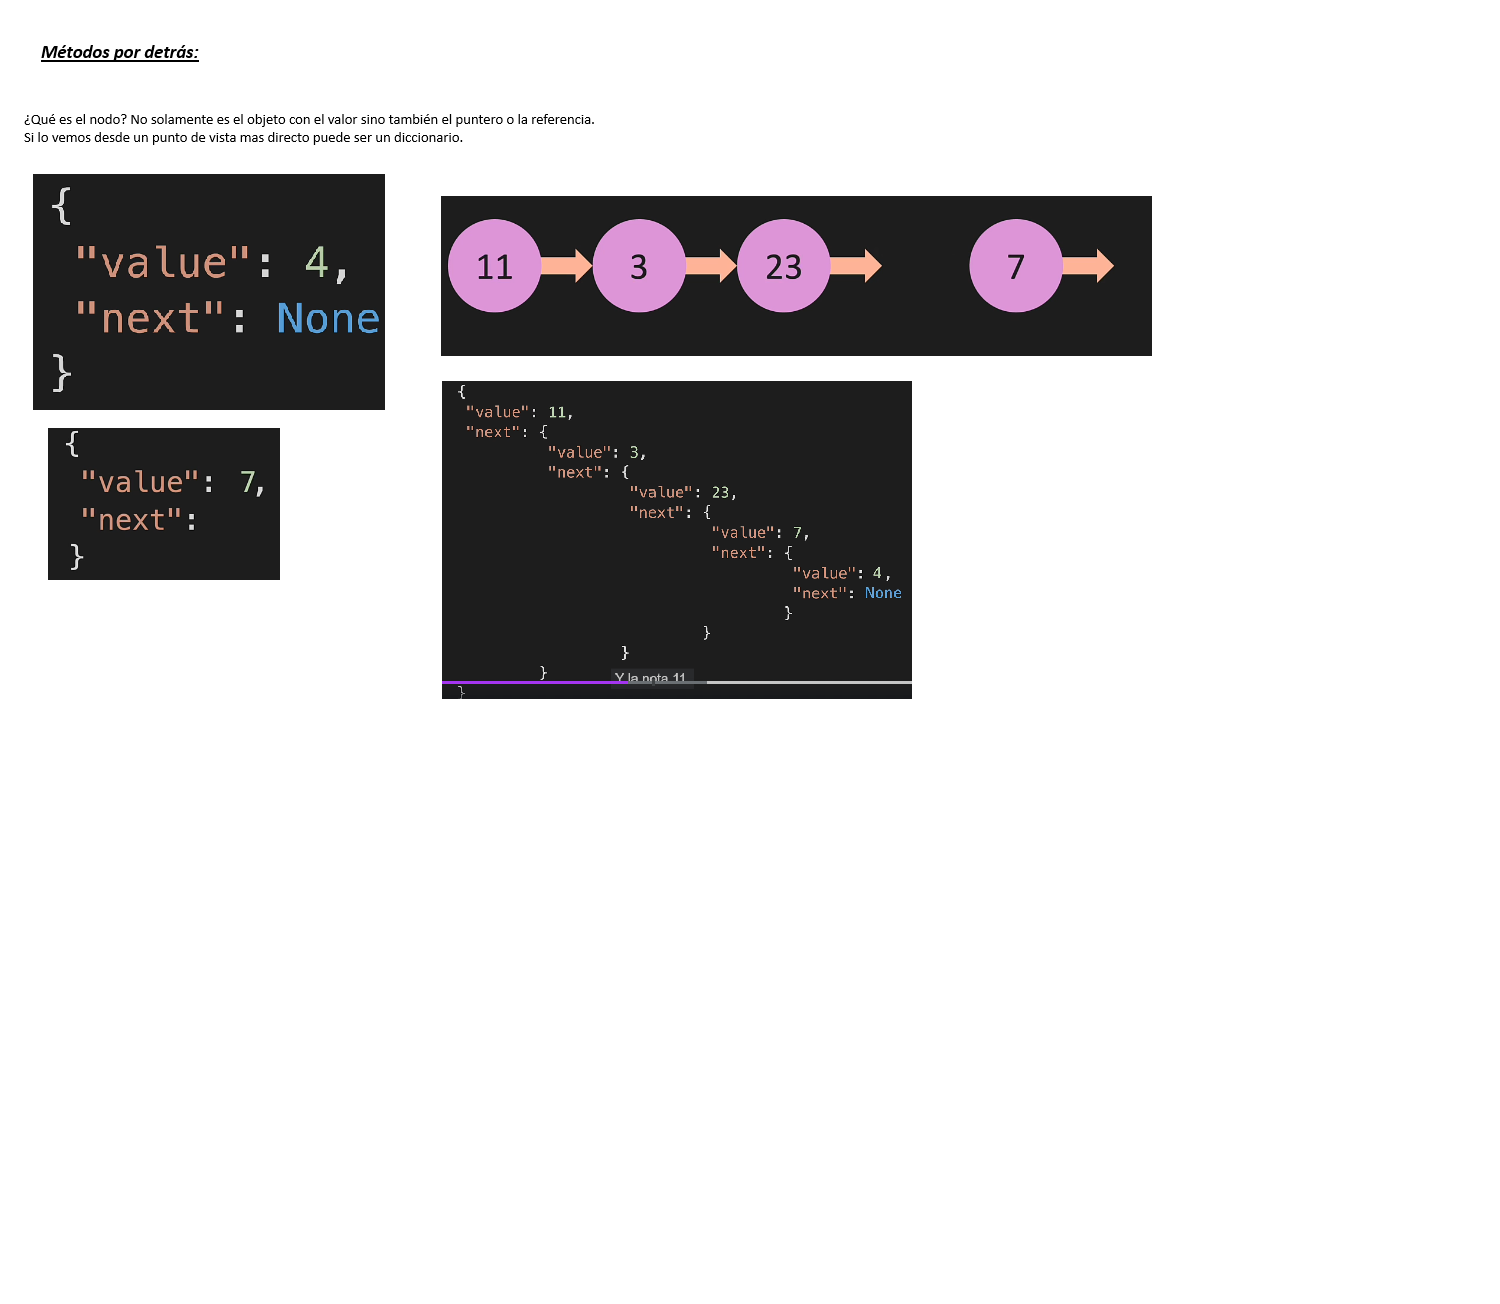
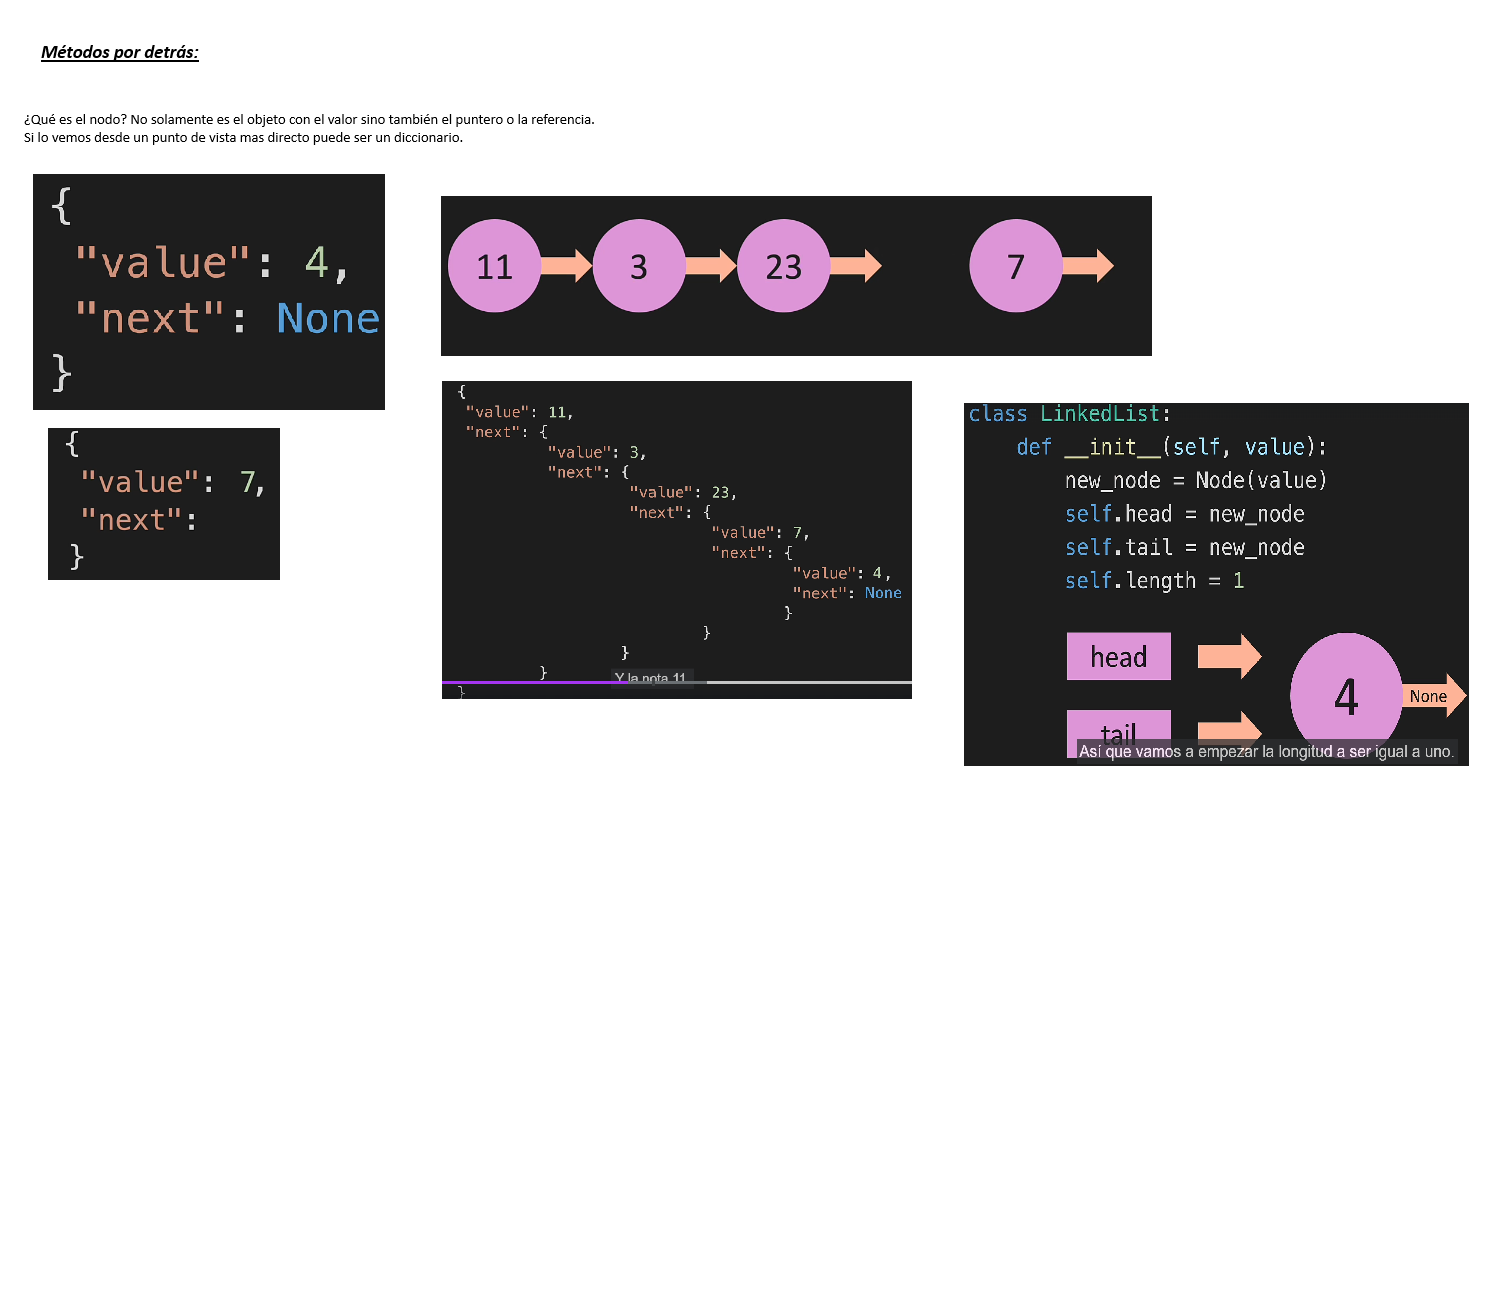
new commit

Changed region(s): [[0.644, 0.3067, 0.9813, 0.6135]]

diff --git a/LL/linkedList.py b/LL/linkedList.py
@@ -1,0 +1,16 @@
+class Node:
+    def __init__(self, value):
+        self.value = value
+        self.next = None
+
+class LinkedList:
+    def __init__(self, value):
+        new_node = Node(value)
+        self.head = new_node
+        self.tail = new_node
+    
+    def append(self, value):
+        
+    def prepend(self, value):
+        
+    def insert(self, index, value):
